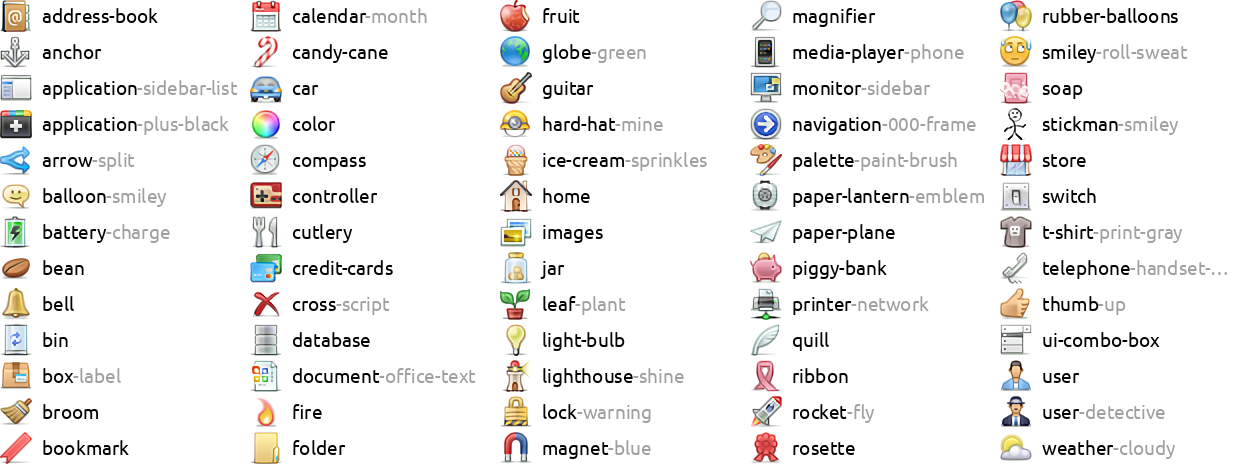
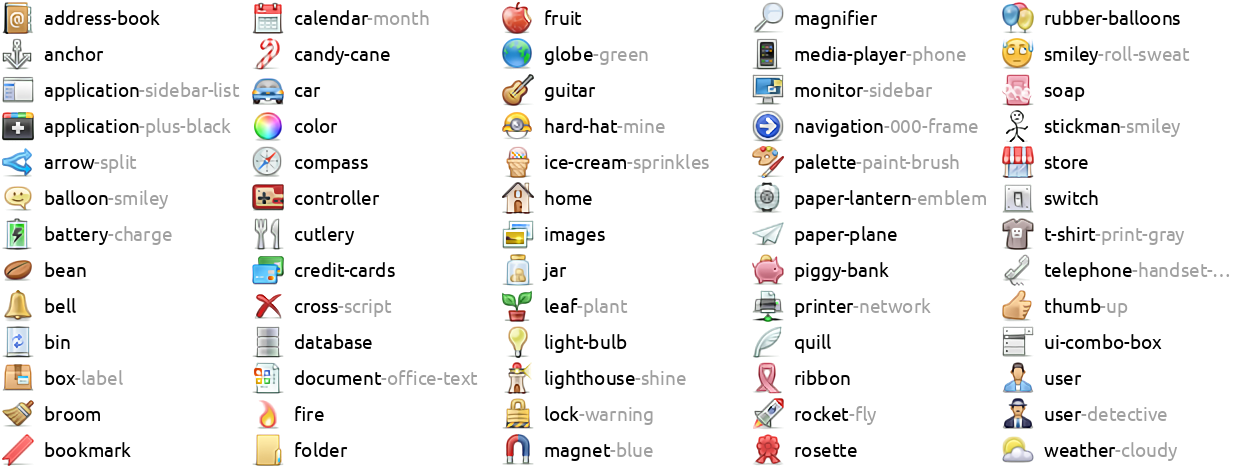
Add some whitespace to the preview and fix wrong link in README

diff --git a/upscale.py b/upscale.py
@@ -354,7 +354,7 @@ def make_preview(folder, mini_preview=False):
     if mini_preview:
         N_ROWS = 13
         N_COLS = 5
-        IMAGE_PADDING = -2
+        IMAGE_PADDING = 0
         RIGHT_CROP = 6
         output_file = f"mini-preview-{folder}-2x.png"
         icons = Path('mini-preview-icons.txt').read_text('utf8').splitlines()

diff --git a/README.md b/README.md
@@ -19,13 +19,13 @@ The code in this repository is licensed under the MIT license - see
 
 [<img src="./mini-preview-icons-2x.png"
       srcset="./mini-preview-icons-2x.png 1x ./mini-preview-icons-2x.png 2x"/>
-  ](https://github.com/chrisjbillington/fugue-2x-icons/raw/master/comparison.png)
+  ](https://github.com/chrisjbillington/fugue-2x-icons/raw/master/mini-preview-icons-2x.png)
 
-[Preview all
-icons](https://github.com/chrisjbillington/fugue-2x-icons/raw/master/all-2x.png) (9MB
+[**Preview all
+icons**](https://github.com/chrisjbillington/fugue-2x-icons/raw/master/all-2x.png) (9MB
 6036x5346 png)
 
-[Download Fugue-2x icons](http://github.com/chrisjbillington/fugue-2x-icons/archive/master.zip)
+[**Download Fugue-2x icons**](http://github.com/chrisjbillington/fugue-2x-icons/archive/master.zip)
 
 
 Comparison
